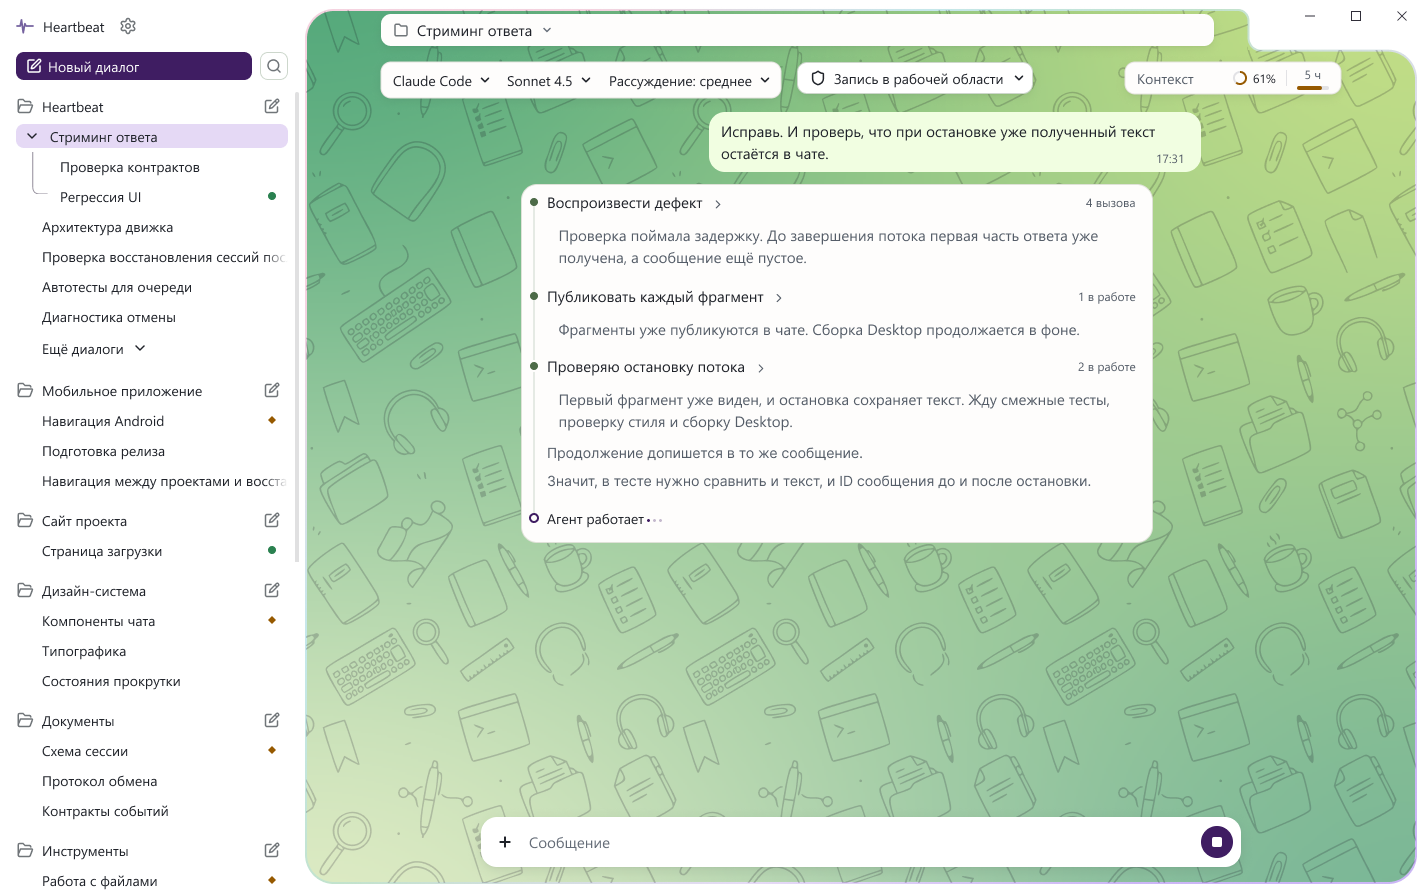
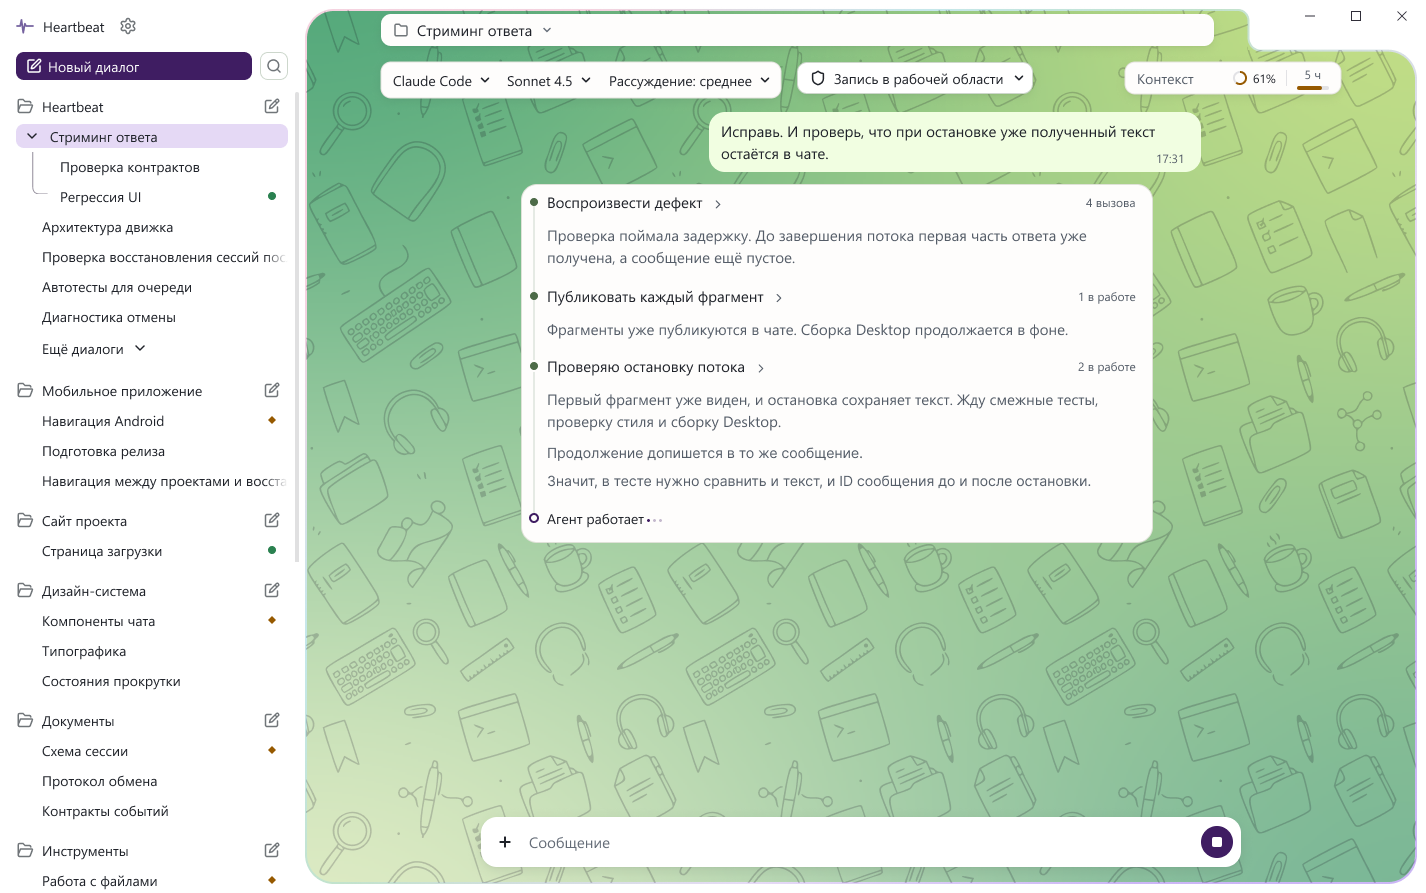
Align consecutive summaries with their stage heading

Changed region(s): [[0.3703, 0.4233, 0.7714, 0.4838], [0.3703, 0.2419, 0.7714, 0.3024], [0.3703, 0.3628, 0.7405, 0.3931]]

diff --git a/specs/desktop-aurora-agent-workspace.md b/specs/desktop-aurora-agent-workspace.md
@@ -97,7 +97,7 @@
 
 Публичный промежуточный итог завершает текущий этап в момент получения. В том же обновлении группа сворачивается, а у одиночного вызова закрываются подробности. Итог остаётся под строкой этапа. Если в группе ещё идут фоновые вызовы, справа видно их количество. Поздний результат обновляет исходный вызов по ID. Пользователь может повторно открыть подробности.
 
-Если следующий шаг агента сразу приносит итог без инструмента, клиент добавляет его отдельным абзацем под предыдущим итогом. Несколько таких событий подряд сохраняют порядок поступления, ID этапа, число вызовов и один маркер. Повторная доставка события с тем же ID сохраняет один экземпляр абзаца. Если предыдущего этапа ещё нет, текст появляется прямо в сообщении. Если работа продолжается, под итогами виден один фиолетовый маркер следующего этапа. [Один итог после чтения](https://www.figma.com/design/ivLmgulIBIkMzOw8sgvKxj/Aurora-DS?node-id=496-129669) · [Два итога после группы](https://www.figma.com/design/ivLmgulIBIkMzOw8sgvKxj/Aurora-DS?node-id=496-130599)
+Если следующий шаг агента сразу приносит итог без инструмента, клиент добавляет его отдельным абзацем под предыдущим итогом. Первый и последующие абзацы, включая строки переноса, начинаются на одной вертикали с заголовком этапа, в 26 dp от левого края облачка. Несколько таких событий подряд сохраняют порядок поступления, ID этапа, число вызовов и один маркер. Повторная доставка события с тем же ID сохраняет один экземпляр абзаца. Если предыдущего этапа ещё нет, текст появляется прямо в сообщении. Если работа продолжается, под итогами виден один фиолетовый маркер следующего этапа. [Один итог после чтения](https://www.figma.com/design/ivLmgulIBIkMzOw8sgvKxj/Aurora-DS?node-id=496-129669) · [Два итога после группы](https://www.figma.com/design/ivLmgulIBIkMzOw8sgvKxj/Aurora-DS?node-id=496-130599)
 
 ![Три последовательных абзаца под этапом проверки остановки. Счётчик показывает два фоновых вызова, ниже виден один маркер ожидания.](../previews/desktop-agent-turns/consecutive-summaries.png)
 
